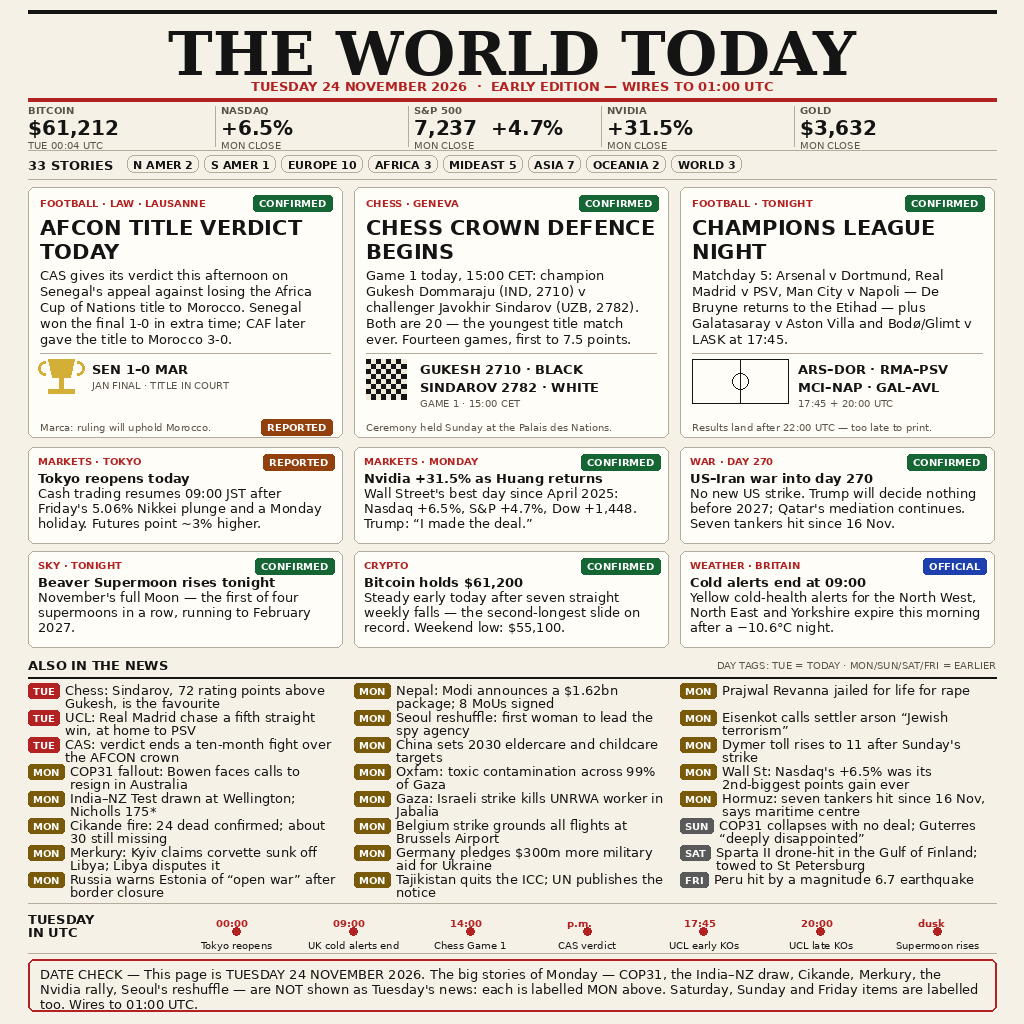
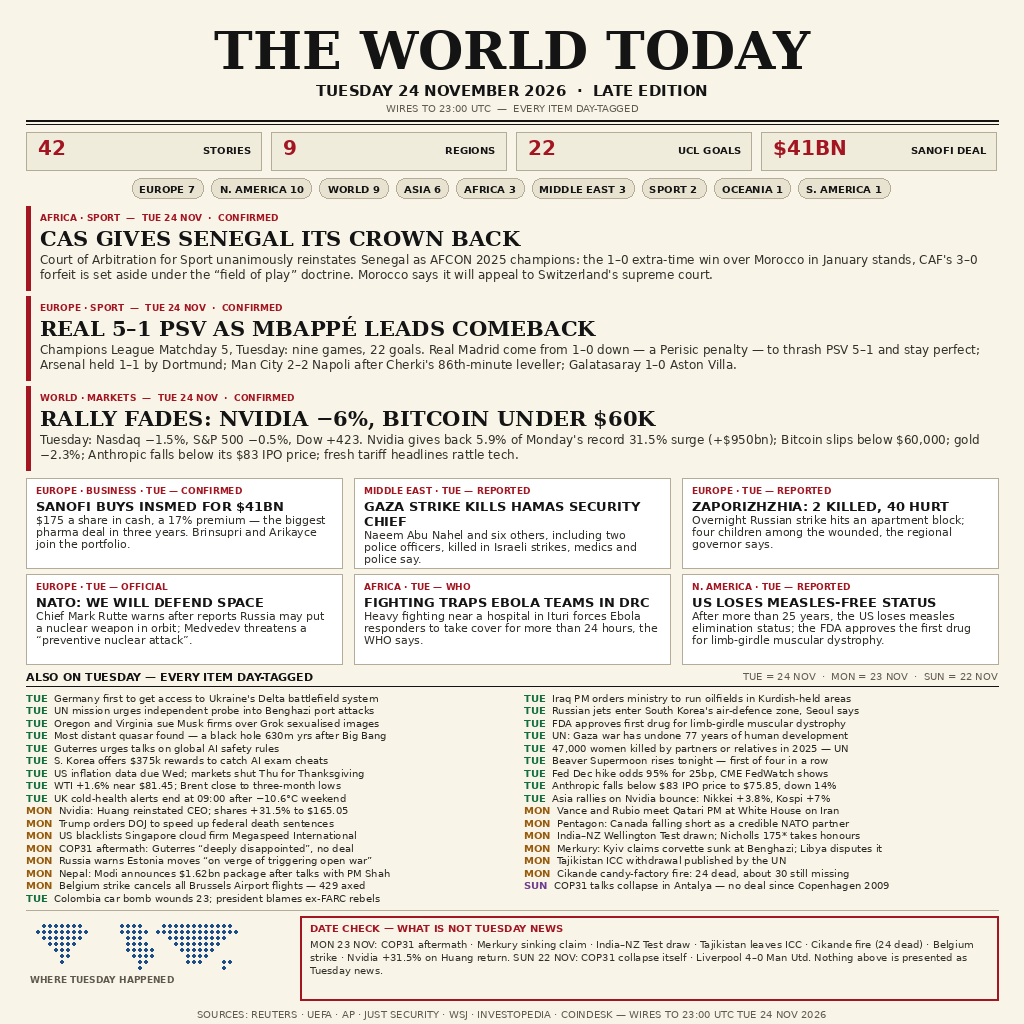
news-image-20261124 v2: THE WORLD TODAY late edition — 42 dated stories, 9 regions, DATE CHECK

Changed region(s): [[0.0, 0.0, 1.0, 1.0], [0.9688, 0.9375, 1.0, 0.9688]]

diff --git a/main.py b/main.py
@@ -1,10 +1,14 @@
 #!/usr/bin/env python3
-"""news-image-20261124: copy the pre-rendered entry image to the output.
+"""news-image-20261124 v2: write the pre-rendered front page to the output.
 
-Stdlib only. The entry image is a 1024x1024 PNG summing up 24 November
-2026 world news ("THE WORLD TODAY" broadsheet, 33 stories, 8 regions,
-explicit DATE CHECK). This program verifies the embedded image's sha256
-and 1 MiB size cap, then copies it to the output path.
+The entry image is a 1024x1024 PNG, "THE WORLD TODAY — Tuesday 24 November
+2026, Late Edition": 42 day-tagged stories across 9 regions, with the CAS
+Senegal ruling, Champions League Matchday 5 and the Tuesday market fade as
+the three lead stories, plus an explicit DATE CHECK box.
+
+Standard library only. This program checks the bundled image against its
+known sha256 and the 1 MiB size limit, copies it to the output path, and
+then re-checks the copy byte for byte before exiting.
 """
 
 import hashlib
@@ -12,34 +16,39 @@ import os
 import shutil
 import sys
 
[1 lines of base64/hex data omitted]
-MAX_BYTES = 1_000_000
-SRC_NAME = "entry.png"
+IMAGE_NAME = "entry.png"
[1 lines of base64/hex data omitted]
+SIZE_LIMIT = 1_000_000
 
 
-def main():
+def _digest(path):
+    h = hashlib.sha256()
+    with open(path, "rb") as fh:
+        for chunk in iter(lambda: fh.read(65536), b""):
+            h.update(chunk)
+    return h.hexdigest()
+
+
+def main(argv):
     here = os.path.dirname(os.path.abspath(__file__))
-    src = os.path.join(here, SRC_NAME)
+    src = os.path.join(here, IMAGE_NAME)
     out = os.environ.get("ENTRY_OUTPUT") or "/output/entry.png"
-    if len(sys.argv) > 1:
-        out = sys.argv[1]
+    if len(argv) > 1:
+        out = argv[1]
 
-    with open(src, "rb") as fh:
-        data = fh.read()
-    if len(data) > MAX_BYTES:
-        raise SystemExit("entry.png exceeds the 1 MiB cap: %d bytes" % len(data))
-    digest = hashlib.sha256(data).hexdigest()
-    if digest != EXPECTED_SHA256:
-        raise SystemExit("entry.png sha256 mismatch: %s" % digest)
+    if os.path.getsize(src) > SIZE_LIMIT:
+        raise SystemExit("entry image over the 1 MiB limit")
+    if _digest(src) != IMAGE_SHA256:
+        raise SystemExit("entry image sha256 does not match the expected value")
 
-    os.makedirs(os.path.dirname(os.path.abspath(out)), exist_ok=True)
+    parent = os.path.dirname(os.path.abspath(out))
+    if parent:
+        os.makedirs(parent, exist_ok=True)
     shutil.copyfile(src, out)
-    # verify the copy byte-for-byte before reporting success
-    with open(out, "rb") as fh:
-        if hashlib.sha256(fh.read()).hexdigest() != EXPECTED_SHA256:
-            raise SystemExit("output copy failed verification")
-    print("wrote %s (%d bytes, sha256 %s)" % (out, len(data), digest))
+    if _digest(out) != IMAGE_SHA256:
+        raise SystemExit("written output failed its sha256 check")
+    print("wrote %s (%d bytes)" % (out, os.path.getsize(out)))
 
 
 if __name__ == "__main__":
-    main()
+    main(sys.argv)
